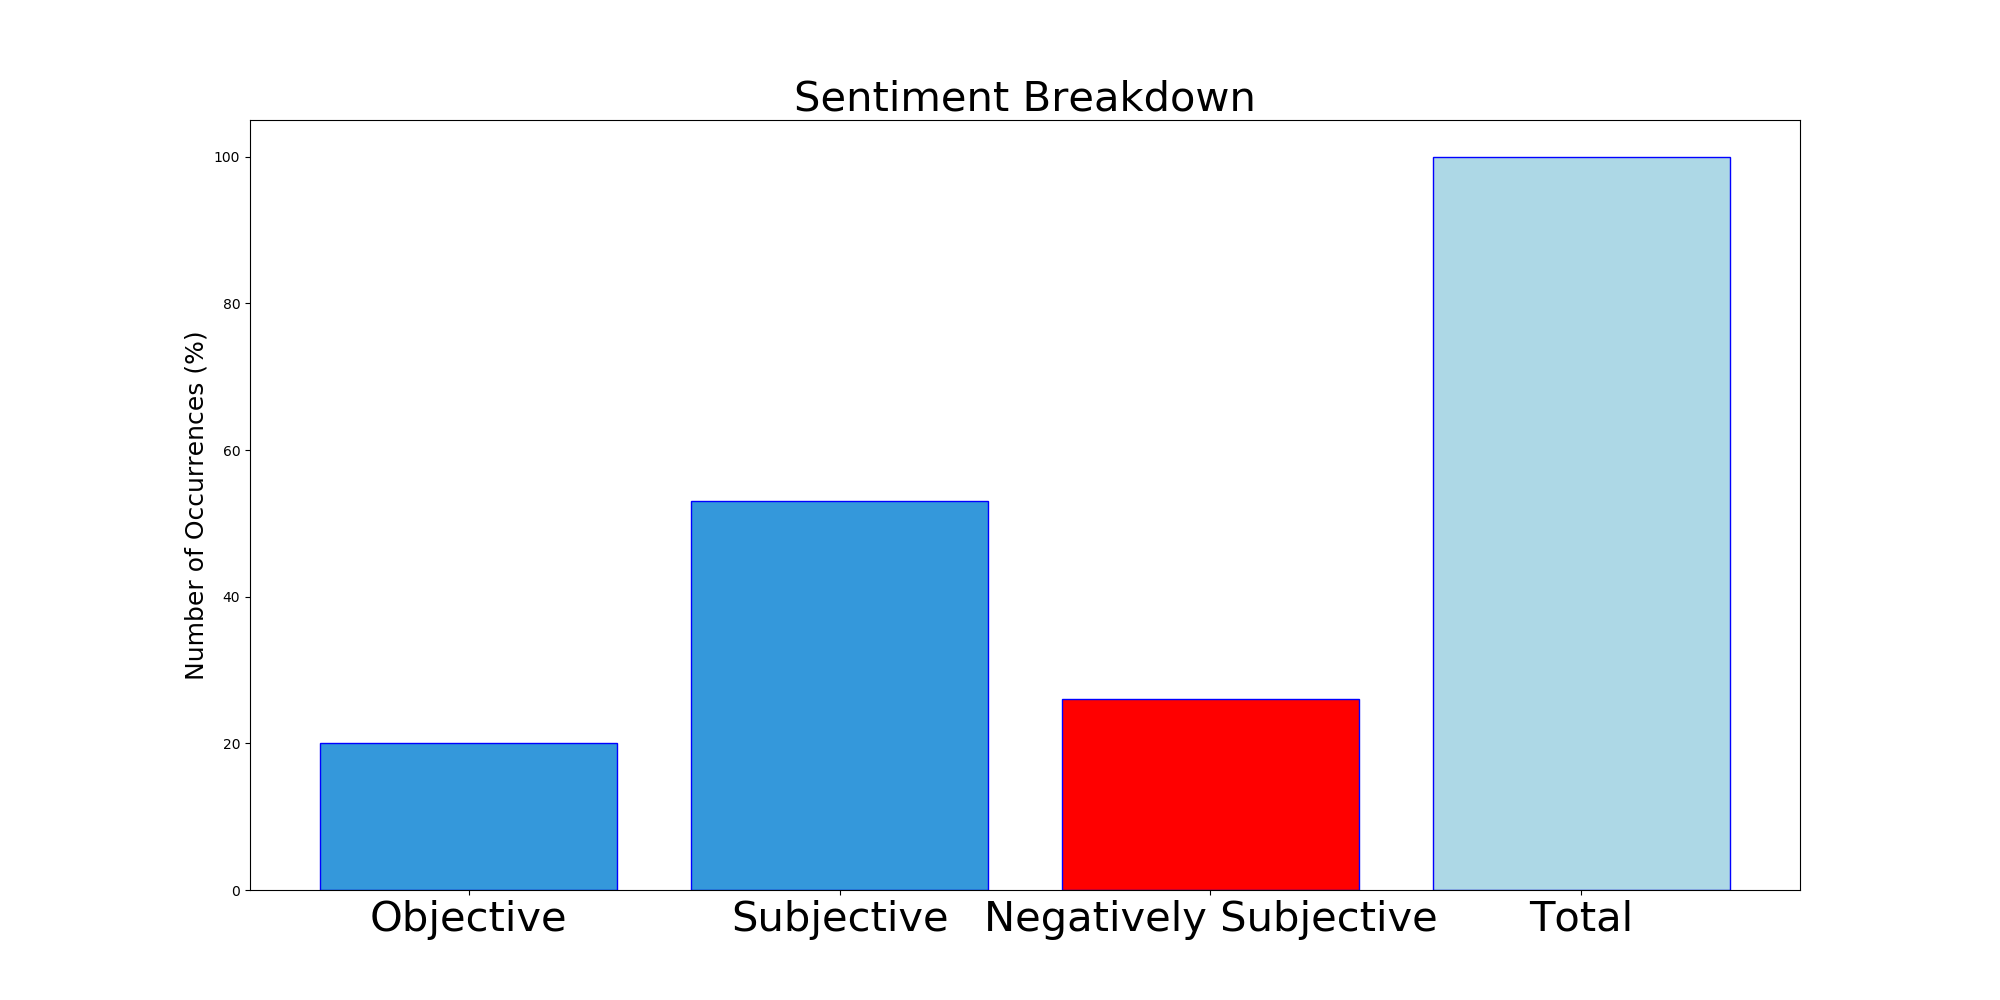
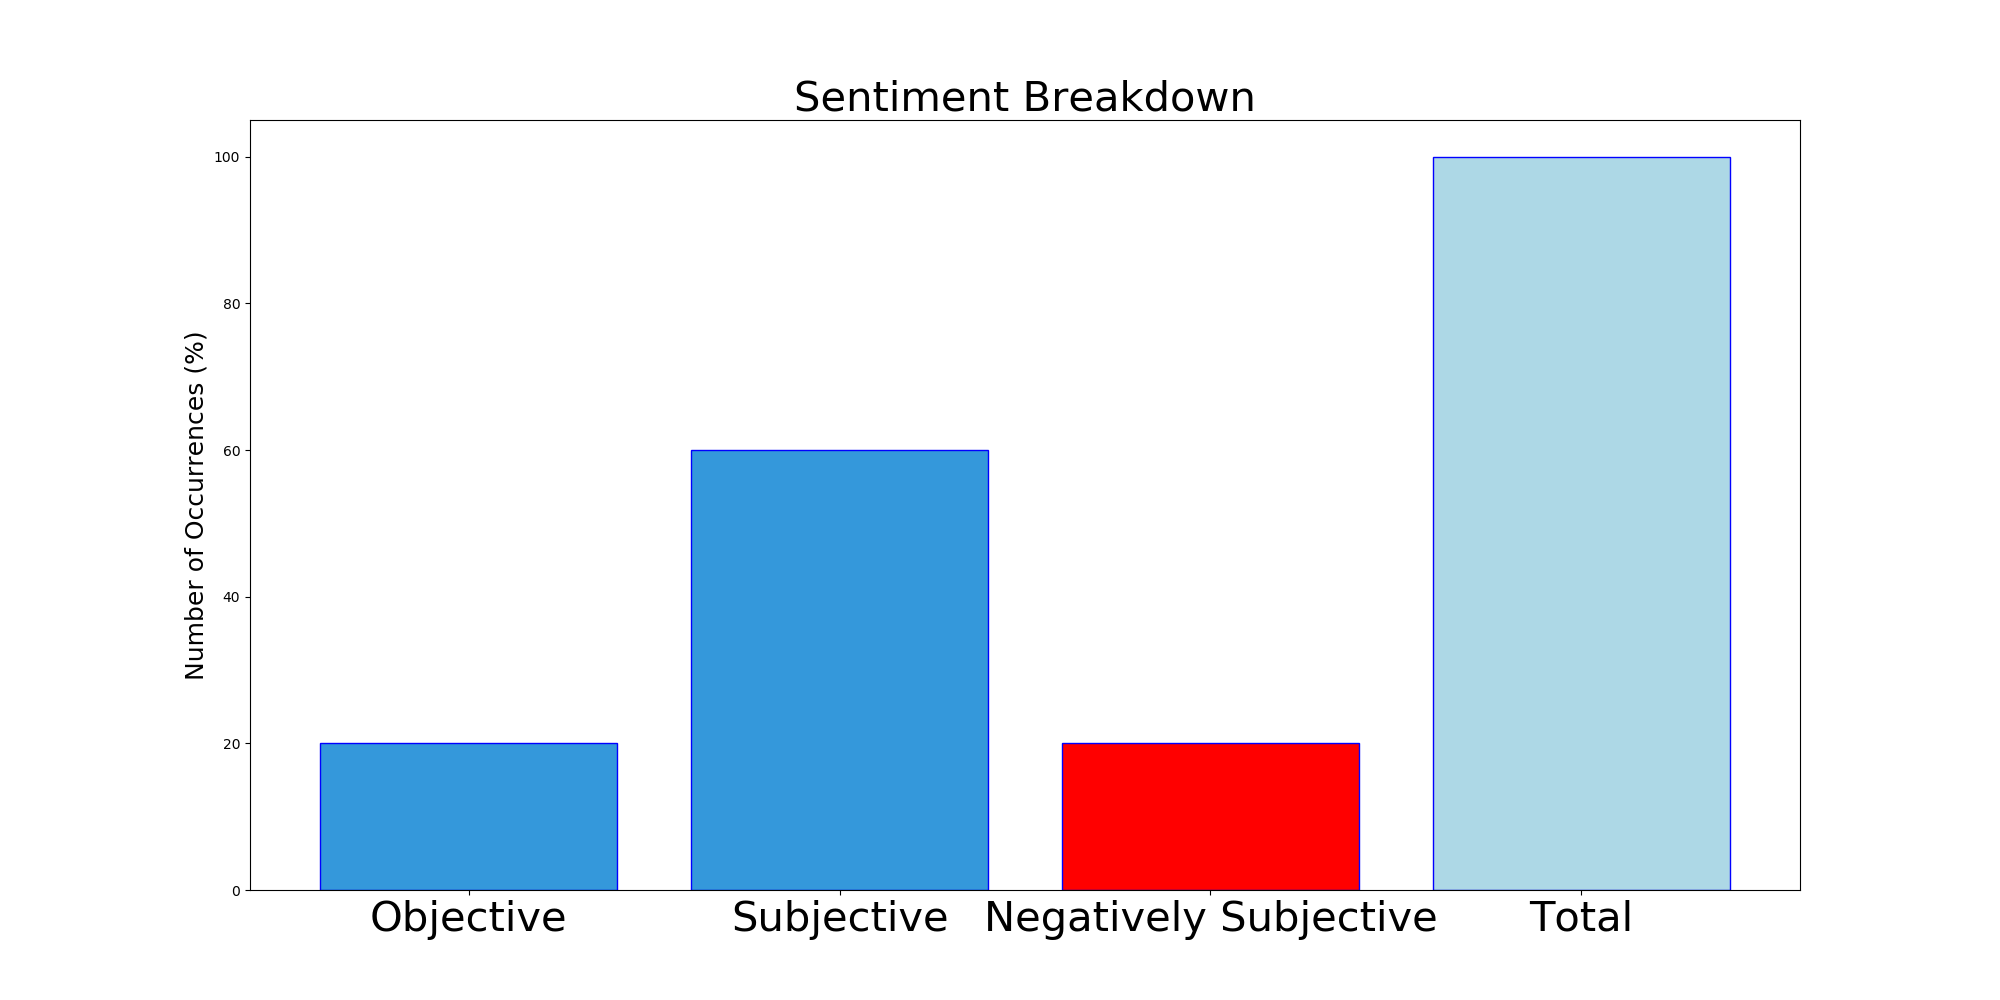
Updating with latest report

Changed region(s): [[0.341, 0.434, 0.496, 0.527], [0.527, 0.682, 0.682, 0.744]]

diff --git a/README.md b/README.md
@@ -15,11 +15,11 @@
 
 |                **Sample-Tweets**        |
 | :-------------: |
-| RT @aubrey607298241: #JusticeForElijah #ElijahMcClain #ElijahMcClainWasMurdered These pigs murdered Elijah and deserve to rot in prison. Th… |
-| RT @AshlyMauer: ARREST THE BASTARDS WHO KILLED #ELIJAHMCCLAIN Their names are:Nathan WoodyardJason RosenblattRandy RoedemaJeremy Coop… |
-| RT @Meduso_bass: If this doesnt make you absolutely sick to your stomach to read through, you are the problem. Even in his last breaths #El… |
+| RT @melanin_p0ppin_: Arrest the cops who killed #ElijahMcClain Arrest the cops who killed #BreonnaTayor Arrest the cops who killed #Eli… |
+| RT @shannonrwatts: As a white person, I will not share dehumanizing videos that exploit the horrific deaths of Black and brown Americans at… |
+| RT @melanin_p0ppin_: Arrest the cops who killed #ElijahMcClain Arrest the cops who killed #BreonnaTayor Arrest the cops who killed #Eli… |
 
-The most popular user is: **i_nyoom**
+The most popular user is: **RETR0PLANET**
 <div class="alert alert-block alert-danger"> RT @letarik_b: THIS BLACK BOY WHO PLAYED THE VIOLIN FOR KITTENS IN ANIMAL SHELTERS DURING HIS SPARE TIME WAS FUCKING MURDERED BY POLICE FOR…</div>
 
 ## RELATED METRICS<br>
@@ -27,10 +27,10 @@ The most popular user is: **i_nyoom**
 | ------------- | ------------- |
 | #1 Most tweeted to  | **ohsnapitztab** |
 | #2 Most tweeted to  | **melanin_p0ppin_** |
-| #3 Most tweeted to  | **BerniceKing** |
-| NewProfiles (less than 10 days) | 0.39%  |
-| Tweeters with < 10 followers  | 3.78%|
-| Tweeters with > 1000000 followers  | 0.01%  |
+| #3 Most tweeted to  | **mefeater** |
+| NewProfiles (less than 10 days) | 0.43%  |
+| Tweeters with < 10 followers  | 4.16%|
+| Tweeters with > 1000000 followers  | 0.0%  |
 
 
 
@@ -40,25 +40,25 @@ The most popular user is: **i_nyoom**
 | Popularity Rank  | Term |
 | ------------- | ------------- |
 | first  | **ELIJAHMCCLAIN**  |
-| second  | **JUSTICE**  |
-| third  | **COPS** |
-| fourth  | **ARREST**  |
-| fifth  | **KILLED**  |
+| second  | **COPS**  |
+| third  | **ARREST** |
+| fourth  | **KILLED**  |
+| fifth  | **JUSTICE**  |
 
 
 ## Twitter Bio Analysis![image](BIO.png)
 ### SENTIMENT ANALYSIS
 ![image](sentiment.png)
-VIEWS WERE : **SUBJECTIVE**  (53.33%) & **NEGATIVELY-SUBJECTIVE** (26.67%) **OBJECTIVE** (20.0%)
+VIEWS WERE : **SUBJECTIVE**  (60.0%) & **NEGATIVELY-SUBJECTIVE** (20.0%) **OBJECTIVE** (20.0%)
 
 ### TWEET SAMPLE 
 | Random value picked from array |
 | ------------- |
-|RT @letarik_b: THIS BLACK BOY WHO PLAYED THE VIOLIN FOR KITTENS IN ANIMAL SHELTERS DURING HIS SPARE TIME WAS FUCKING MURDERED BY POLICE FOR… |
+|RT @ohsnapitztab: JUSTICE FOR THIS SWEET BOYJUSTICE FOR #ElijahMcClain https://t.co/obGE32B09F |
 
 ### MOST RETWEETED 
 
-| The most retweeted user is: **i_nyoom**  |
+| The most retweeted user is: **RETR0PLANET**  |
 | ------------- |
 | RT @letarik_b: THIS BLACK BOY WHO PLAYED THE VIOLIN FOR KITTENS IN ANIMAL SHELTERS DURING HIS SPARE TIME WAS FUCKING MURDERED BY POLICE FOR… |
 
